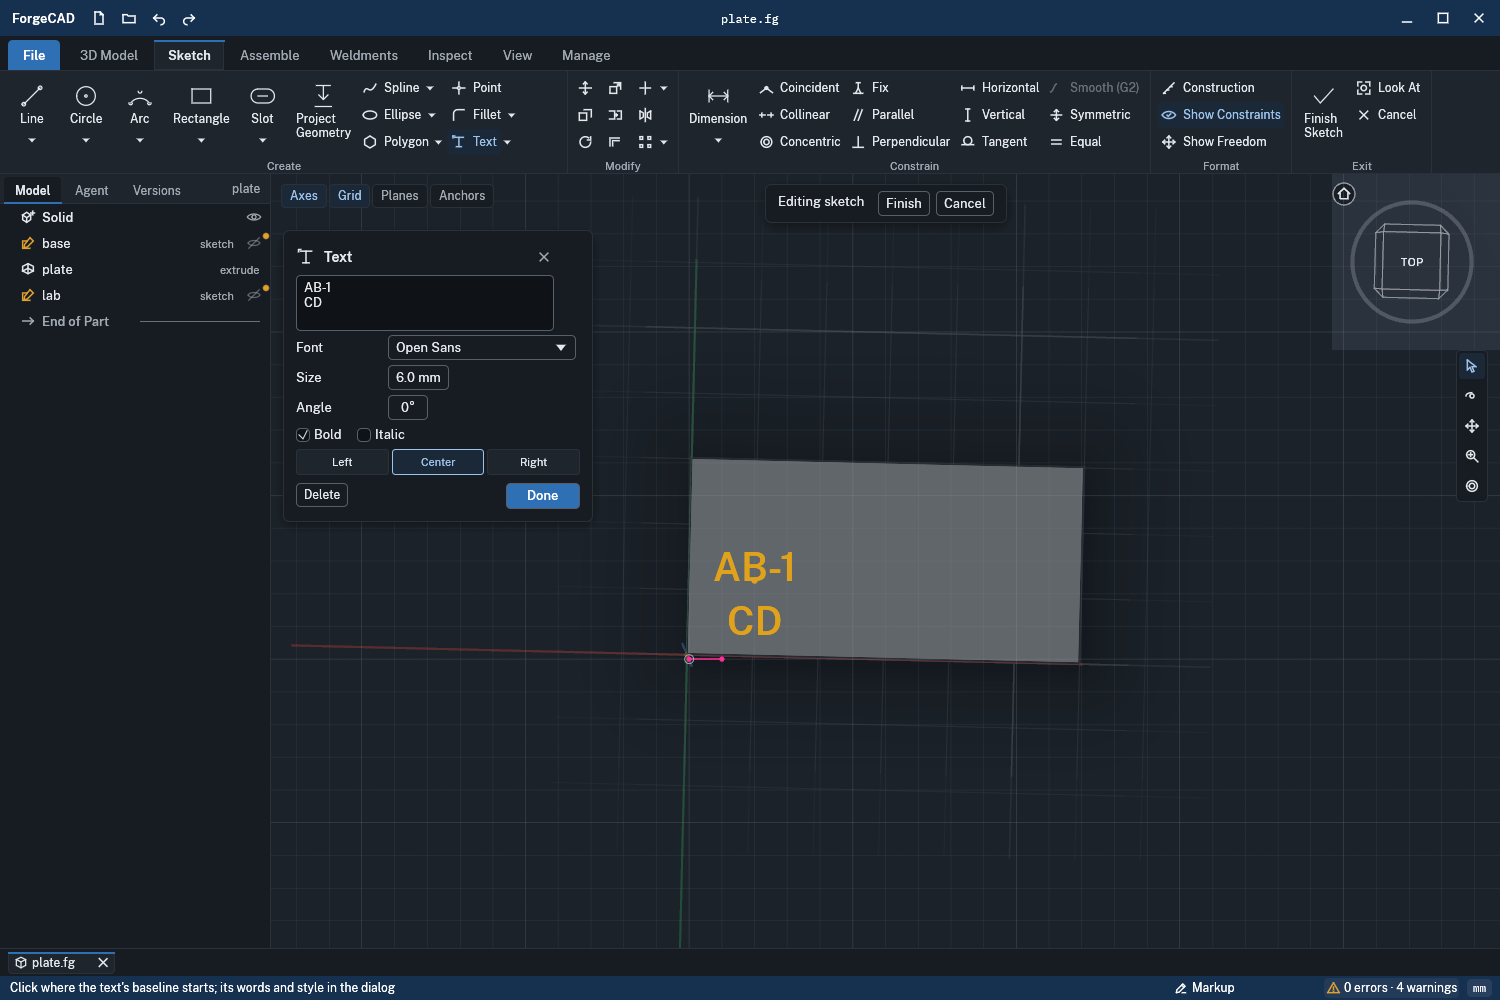
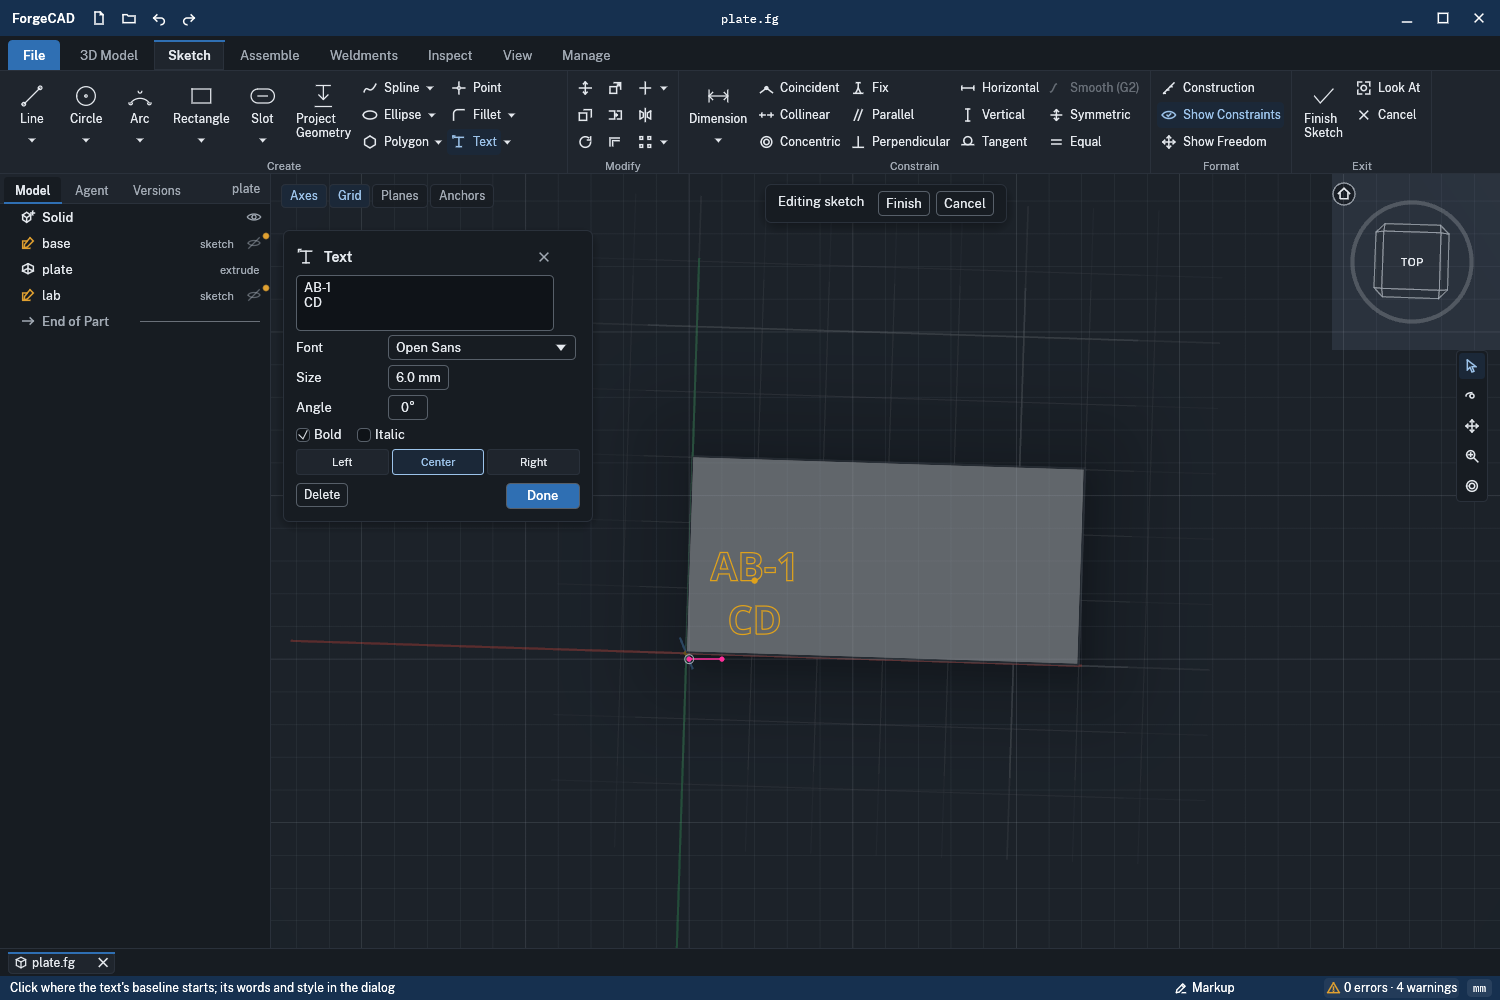
forge-render: the sketch text preview in the chosen font, as the build will set it
The sketcher drew a text's preview in the UI's own font. It now draws the
glyph outlines themselves: forge_lang::sketch_text::preview (the same font
lookup and layout text() uses, flattened to closed polylines in ems: a
passthrough, no language) scaled to the size, turned by the angle and placed
at the start. Laid out once per change (a bounded cache keyed by font, style,
alignment, lines and folder), not once a frame. A font that can't be read
says why in the dialog and the preview falls back to the UI font.

Tests: sktext::the_preview_is_the_chosen_fonts_glyphs (Open Sans "AB" is five
contours; bold and Source Sans 3 draw otherwise; an unknown family is
refused). research/ui/after: sktext-1-dialog, sktext-2-reopened re-taken.

Claude-Session: https://claude.ai/code/session_01Q19LzyxEjALvQNpHRRB9jW

diff --git a/interface/forge-render/src/shell/sktext.rs b/interface/forge-render/src/shell/sktext.rs
@@ -251,6 +251,39 @@ impl SkText {
     }
 }
 
+/// Closed polylines, in ems.
+pub type Outlines = std::sync::Arc<Vec<Vec<(f64, f64)>>>;
+
+/// A text's glyphs in its own font, flattened, in ems (`forge_lang::sketch_text::preview`),
+/// kept by what decides them: laid out once per change, not once a frame.
+pub fn outlines(dir: Option<&std::path::Path>, t: &SkText) -> Result<Outlines, String> {
+    use std::sync::{Arc, Mutex, OnceLock};
+    type Key = (Option<std::path::PathBuf>, String, bool, bool, String, String);
+    type Got = Result<Outlines, String>;
+    static CACHE: OnceLock<Mutex<HashMap<Key, Got>>> = OnceLock::new();
+    let key: Key = (
+        dir.map(|d| d.to_path_buf()),
+        t.font.clone(),
+        t.bold,
+        t.italic,
+        t.align.clone(),
+        t.text.clone(),
+    );
+    let cache = CACHE.get_or_init(|| Mutex::new(HashMap::new()));
+    if let Some(got) = cache.lock().unwrap_or_else(|e| e.into_inner()).get(&key) {
+        return got.clone();
+    }
+    let got: Got =
+        forge_lang::sketch_text::preview(dir, &t.font, t.bold, t.italic, &t.text, &t.align).map(Arc::new);
+    let mut c = cache.lock().unwrap_or_else(|e| e.into_inner());
+    // a bounded cache: typing makes a key a keystroke
+    if c.len() > 256 {
+        c.clear();
+    }
+    c.insert(key, got.clone());
+    got
+}
+
 /// The fonts a sketch text may take: the shipped families, then .ttf and .otf files beside the
 /// part.
 pub fn fonts(dir: Option<&std::path::Path>) -> Vec<String> {
@@ -414,6 +447,10 @@ impl super::Shell {
                 .pixel_of([w.x as f32, w.y as f32, w.z as f32], size.0, size.1)
                 .map(|px| view.min + vec2(px.0, px.1) / ppp)
         };
+        let font_dir = self
+            .fg
+            .as_ref()
+            .and_then(|f| std::path::Path::new(&f.path).parent().map(|d| d.to_path_buf()));
         let painter = ctx
             .layer_painter(egui::LayerId::background())
             .with_clip_rect(view);
@@ -435,6 +472,29 @@ impl super::Shell {
             let font = if s.bold { theme::semi(em) } else { theme::sans(em) };
             let open = m.more.sktext_open == Some(k);
             let ink = if open { t.focus } else { t.sketch };
+            // the glyphs in the chosen font, as the build will set them
+            if let Ok(lines) = outlines(font_dir.as_deref(), s) {
+                let stroke = egui::Stroke::new(1.25, ink);
+                let (sa, ca) = (sin(a), cos(a));
+                for l in lines.iter() {
+                    let pts: Vec<egui::Pos2> = l
+                        .iter()
+                        .filter_map(|&(ex, ey)| {
+                            let (x, y) = (s.size * ex, s.size * ey);
+                            screen((s.x + x * ca - y * sa, s.y + x * sa + y * ca))
+                        })
+                        .collect();
+                    if pts.len() == l.len() {
+                        painter.add(egui::Shape::closed_line(pts, stroke));
+                    }
+                }
+                painter.circle_filled(o, 3.0, ink);
+                self.places.push((
+                    format!("sktext:at:{k}"),
+                    Rect::from_center_size(o, vec2(10.0, 10.0)),
+                ));
+                continue;
+            }
             for (line, words) in s.lines().iter().enumerate() {
                 let g = ctx.fonts_mut(|f| f.layout_no_wrap(words.to_string(), font.clone(), ink));
                 let w = g.size().x;
@@ -554,6 +614,8 @@ impl super::Shell {
                 }
                 if let Err(e) = s.check() {
                     ui.label(egui::RichText::new(e.text()).font(theme::small()).color(t.error));
+                } else if let Err(why) = outlines(dir.as_deref(), s) {
+                    ui.label(egui::RichText::new(why).font(theme::small()).color(t.error));
                 }
                 ui.add_space(S1);
                 ui.horizontal(|ui| {
@@ -679,6 +741,24 @@ mod tests {
         // and taken out
         let (out, _) = write(src, "sk1", &[], &["t1".into()], &HashSet::new()).unwrap();
         assert!(!out.contains("text("), "{out}");
+    }
+
+    #[test]
+    fn the_preview_is_the_chosen_fonts_glyphs() {
+        let mut t = SkText::new(0.0, 0.0, 5.0);
+        t.text = "AB".into();
+        let plain = outlines(None, &t).expect("Open Sans lays out");
+        // A has an outside and a counter; B an outside and two counters
+        assert_eq!(plain.len(), 5, "{}", plain.len());
+        t.bold = true;
+        let bold = outlines(None, &t).unwrap();
+        assert_ne!(plain, bold, "bold is its own face");
+        t.font = "Source Sans 3".into();
+        t.bold = false;
+        let other = outlines(None, &t).unwrap();
+        assert_ne!(plain, other, "another family draws otherwise");
+        t.font = "No Such Font".into();
+        assert!(outlines(None, &t).is_err());
     }
 
     #[test]

diff --git a/interface/forge-lang/src/sketch_text.rs b/interface/forge-lang/src/sketch_text.rs
@@ -177,3 +177,65 @@ pub fn text(ev: &mut Eval, args: &[Arg], span: Span) -> R<Value> {
     }
     Ok(Value::List(Rc::new(out)))
 }
+
+/// A text's glyphs as `text(..)` sets them (the same font lookup and layout), flattened to
+/// closed polylines in ems from the start of its first line's baseline: what an editor draws
+/// before the build does. `dir` is the part's folder (a font file beside it).
+pub fn preview(
+    dir: Option<&std::path::Path>,
+    family: &str,
+    bold: bool,
+    italic: bool,
+    text: &str,
+    align: &str,
+) -> Result<Vec<Vec<(f64, f64)>>, String> {
+    let font =
+        crate::media::font_for(dir, None, family, bold, italic, Span::new(0, 0)).map_err(|e| e.text())?;
+    let align = match align {
+        "center" => Align::Center,
+        "right" => Align::Right,
+        _ => Align::Left,
+    };
+    let placed = lay_out(&font, text, align, 0.0).map_err(|e| format!("{e:?}"))?;
+    let k = 1.0 / font.units_per_em;
+    let at = |p: Point2| (k * p.x, k * p.y);
+    let mut out = vec![];
+    for g in &placed {
+        for contour in &g.contours {
+            let mut line: Vec<(f64, f64)> = vec![];
+            for s in contour {
+                if line.is_empty() {
+                    line.push(at(s.start()));
+                }
+                match s {
+                    Seg::Line(_, b) => line.push(at(*b)),
+                    Seg::Quad(a, c, b) => {
+                        for i in 1..=8 {
+                            let t = i as f64 / 8.0;
+                            let u = 1.0 - t;
+                            line.push(at(Point2::new(
+                                u * u * a.x + 2.0 * u * t * c.x + t * t * b.x,
+                                u * u * a.y + 2.0 * u * t * c.y + t * t * b.y,
+                            )));
+                        }
+                    }
+                    Seg::Cubic(a, c, d, b) => {
+                        for i in 1..=12 {
+                            let t = i as f64 / 12.0;
+                            let u = 1.0 - t;
+                            let (w0, w1, w2, w3) = (u * u * u, 3.0 * u * u * t, 3.0 * u * t * t, t * t * t);
+                            line.push(at(Point2::new(
+                                w0 * a.x + w1 * c.x + w2 * d.x + w3 * b.x,
+                                w0 * a.y + w1 * c.y + w2 * d.y + w3 * b.y,
+                            )));
+                        }
+                    }
+                }
+            }
+            if line.len() > 2 {
+                out.push(line);
+            }
+        }
+    }
+    Ok(out)
+}
